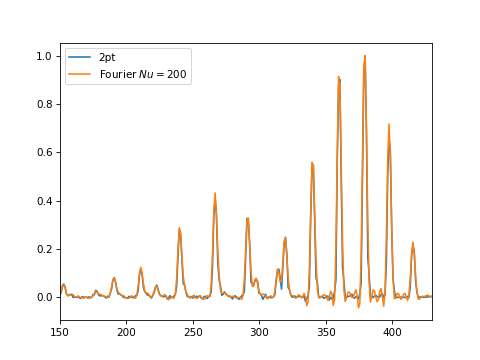
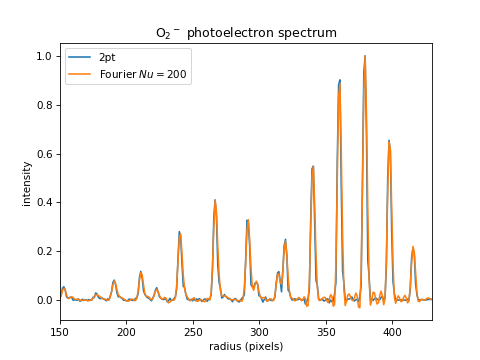
example_fourier_expansion.py with labels

diff --git a/examples/example_fourier_expansion.py b/examples/example_fourier_expansion.py
@@ -32,6 +32,9 @@ Frad, FPES = FIM.angular_integration
 plt.plot(Trad, TPES/TPES.max(), label="2pt")
 plt.plot(Frad, FPES/FPES.max(), label=r"Fourier $Nu={:d}$".format(Nu))
 plt.axis(xmin=150, xmax=430)
+plt.xlabel("radius (pixels)")
+plt.ylabel("intensity")
+plt.title(r"O$_2{^-}$ photoelectron spectrum")
 plt.legend()
 
 plt.savefig("plot_example_fourier_expansion.png", dpi=75)
